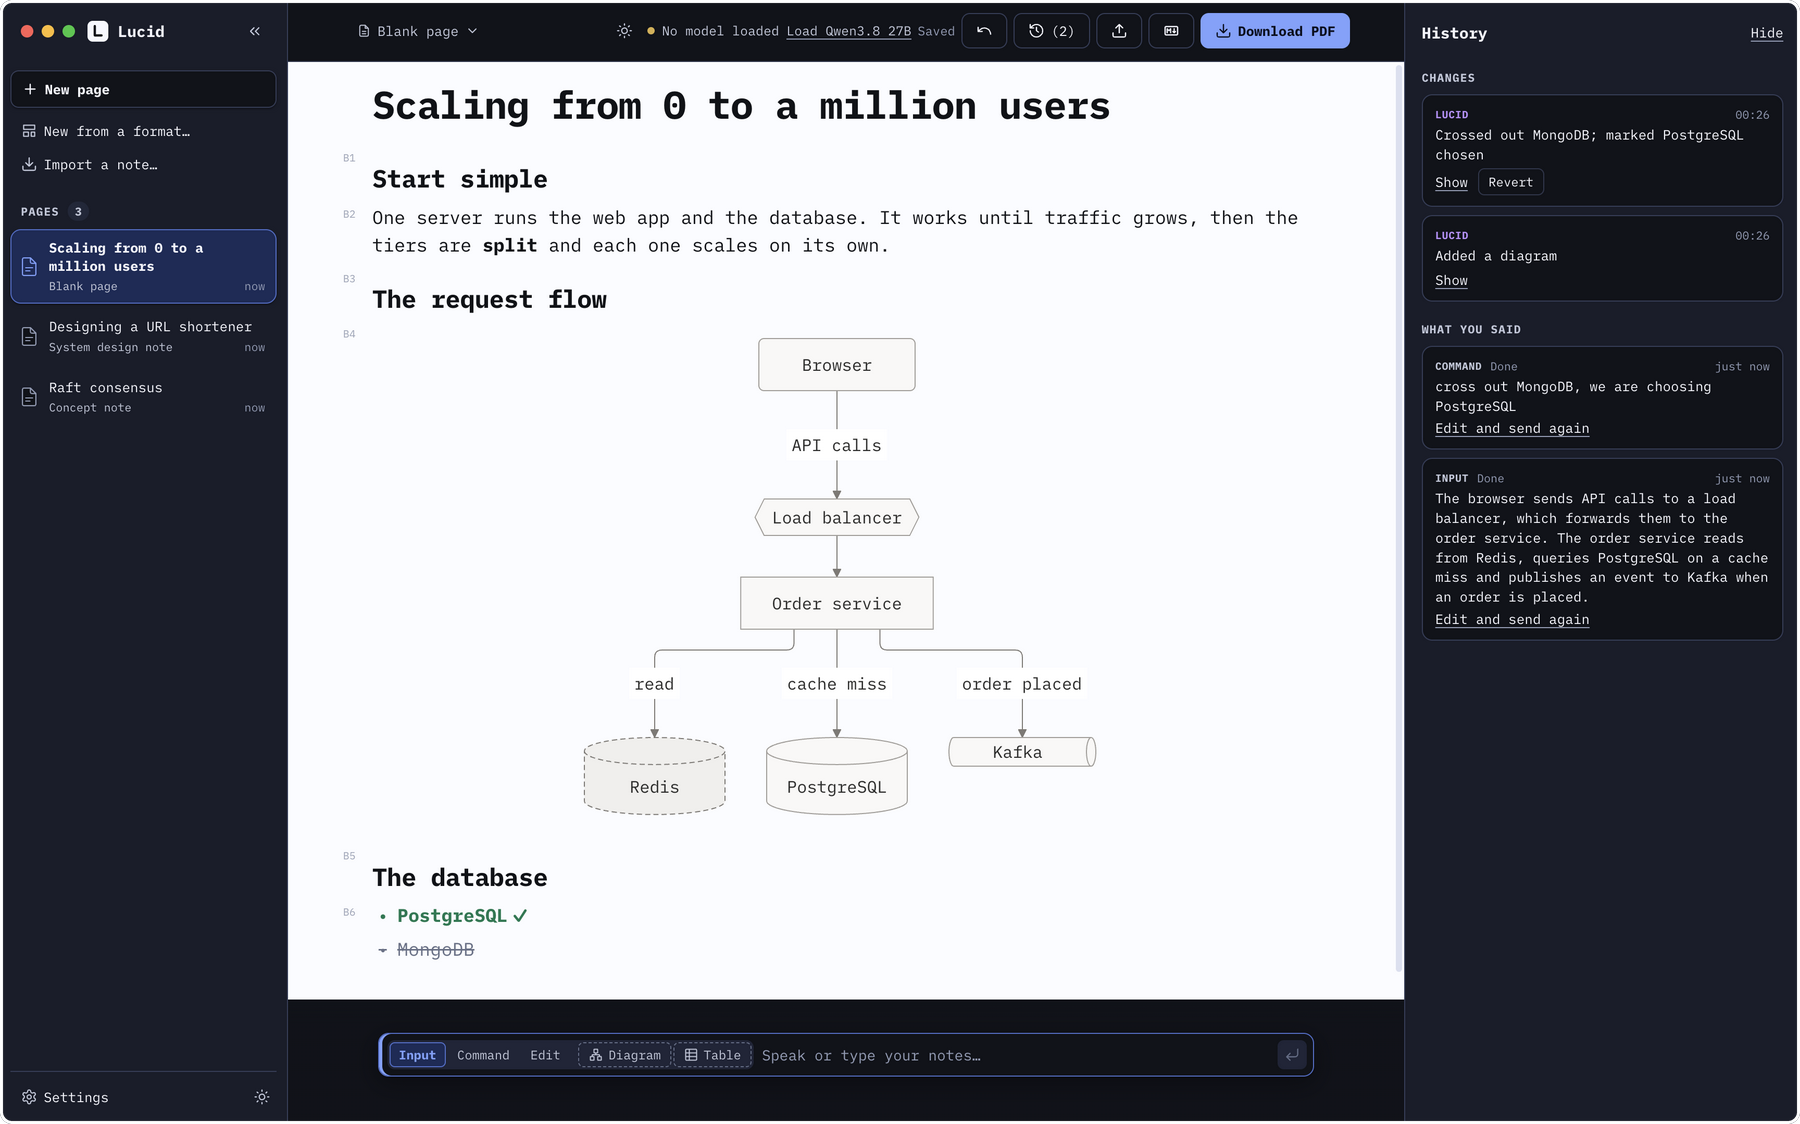
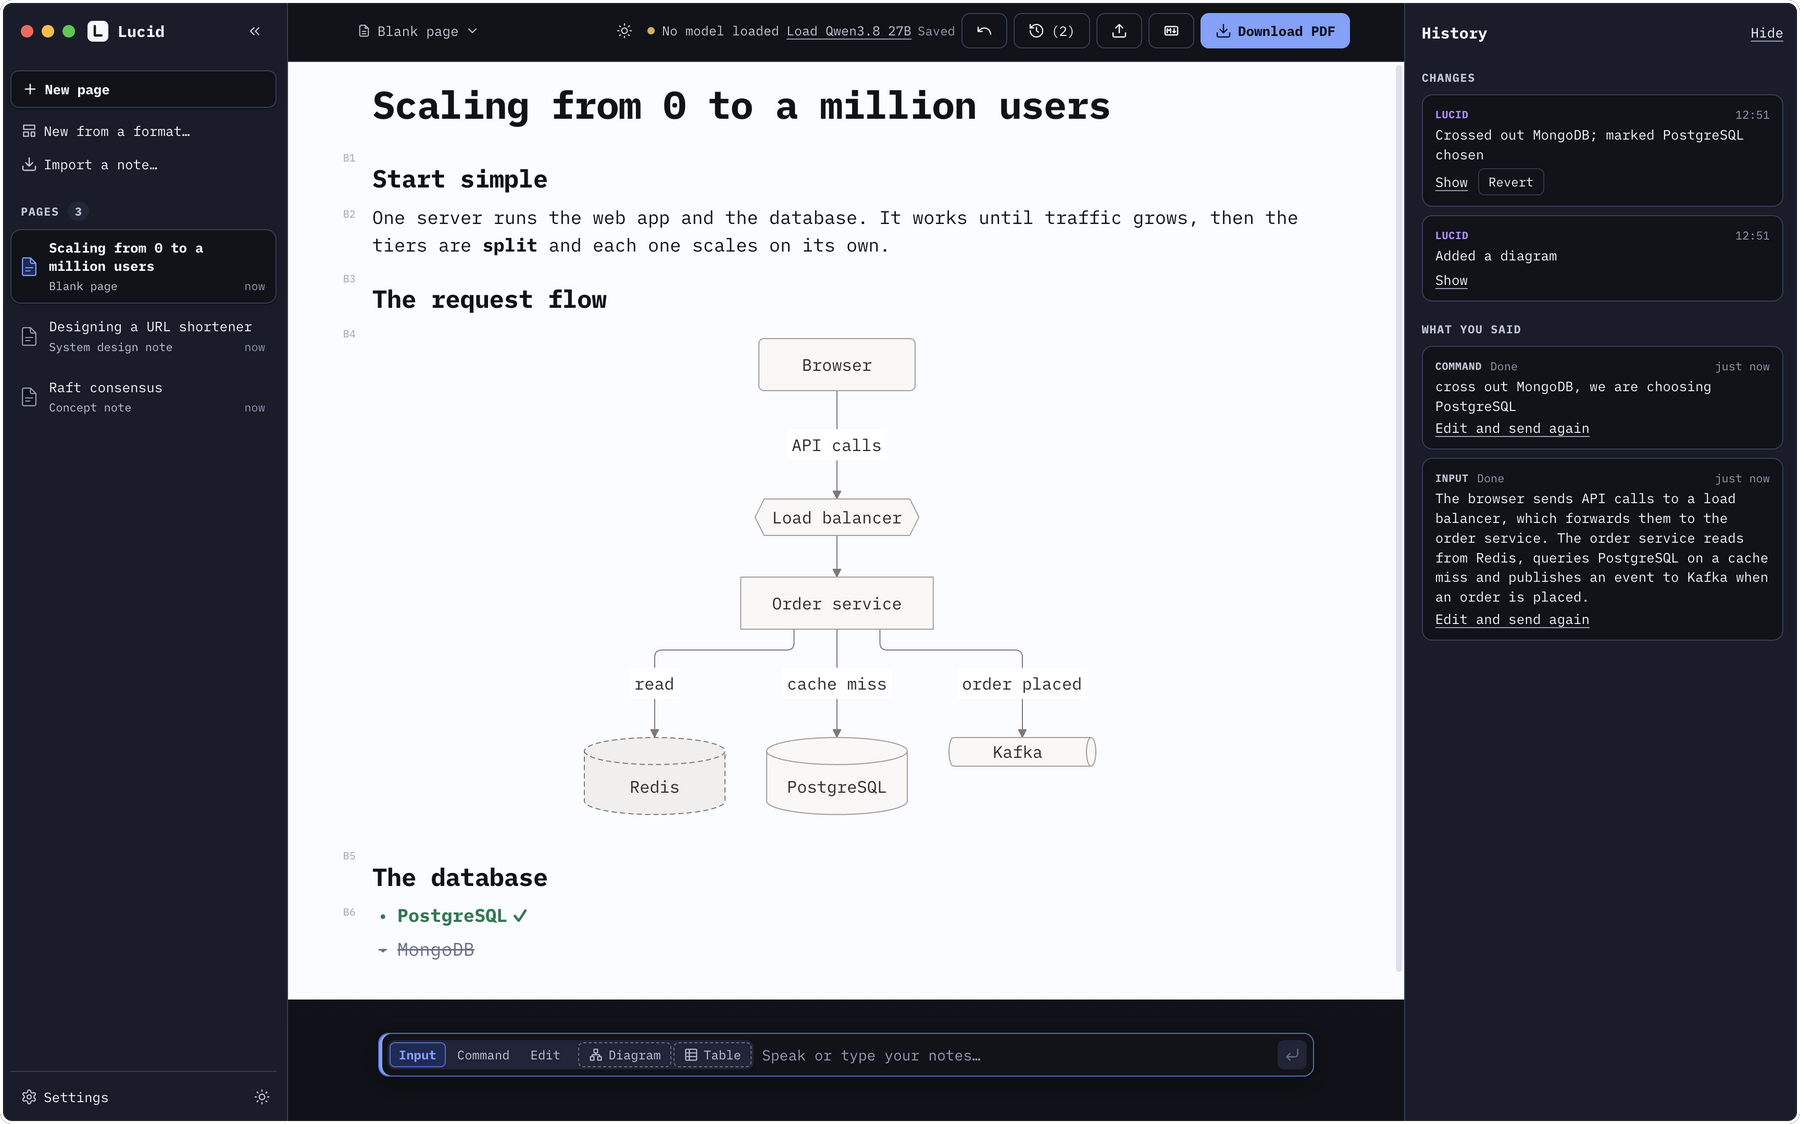
Restrain onboarding color and active-page styling

Changed region(s): [[0.0, 0.1868, 0.1556, 0.2802]]

diff --git a/apps/desktop/src/styles.css b/apps/desktop/src/styles.css
@@ -1826,7 +1826,7 @@ select:focus-visible,
   max-height: calc(100vh - 64px);
   overflow: hidden;
   padding: 0;
-  border: 1px solid color-mix(in srgb, var(--structure) 35%, var(--line));
+  border: 1px solid var(--panel-line);
   border-radius: 24px;
 }
 .onboarding-rail {
@@ -1836,8 +1836,9 @@ select:focus-visible,
   gap: 28px;
   min-width: 0;
   padding: 0 30px;
-  background: var(--structure);
-  color: var(--structure-ink);
+  border-bottom: 1px solid var(--panel-line);
+  background: color-mix(in srgb, var(--panel) 72%, var(--bg));
+  color: var(--ink);
 }
 .onboarding-brand {
   display: flex;
@@ -1860,7 +1861,7 @@ select:focus-visible,
   display: flex;
   align-items: center;
   gap: 10px;
-  color: color-mix(in srgb, var(--structure-ink) 66%, transparent);
+  color: var(--ink-3);
   font-size: 13px;
   font-weight: 700;
 }
@@ -1869,31 +1870,31 @@ select:focus-visible,
   place-items: center;
   width: 23px;
   height: 23px;
-  border: 1px solid color-mix(in srgb, var(--structure-ink) 36%, transparent);
+  border: 1px solid var(--panel-line);
   border-radius: 50%;
   font-size: 11px;
 }
 .onboarding-rail li[data-current="true"] {
-  color: var(--structure-ink);
+  color: var(--ink);
   font-weight: 700;
 }
 .onboarding-rail li[data-current="true"] > span {
-  border-color: var(--structure-ink);
-  background: var(--structure-ink);
-  color: var(--structure);
+  border-color: var(--structure);
+  background: var(--structure);
+  color: var(--structure-ink);
 }
 .onboarding-rail li[data-done="true"] > span {
-  border-color: var(--structure-ink);
-  background: color-mix(in srgb, var(--structure-ink) 14%, transparent);
-  color: var(--structure-ink);
+  border-color: var(--structure-line);
+  background: var(--structure-bg);
+  color: var(--structure);
 }
 .onboarding-rail li[data-done="true"] .icon {
   stroke-width: 3;
 }
 .onboarding-skip {
   margin: 0;
-  color: var(--structure-ink);
-  text-decoration-color: color-mix(in srgb, var(--structure-ink) 48%, transparent);
+  color: var(--ink-2);
+  text-decoration-color: var(--ink-4);
 }
 .onboarding-content {
   display: flex;
@@ -1948,10 +1949,22 @@ select:focus-visible,
   min-height: 0;
   overflow: hidden;
   background:
-    radial-gradient(circle at 85% 16%, rgb(255 255 255 / 24%) 0 14%, transparent 14.5%),
-    radial-gradient(circle at 12% 88%, rgb(255 199 91 / 32%) 0 18%, transparent 18.5%),
-    linear-gradient(145deg, #2457ff 0%, #5c37ec 54%, #8a35d7 100%);
-  color: #fff;
+    radial-gradient(
+      circle at 85% 16%,
+      color-mix(in srgb, var(--data-bg) 72%, transparent) 0 14%,
+      transparent 14.5%
+    ),
+    radial-gradient(
+      circle at 12% 88%,
+      color-mix(in srgb, var(--attention-bg) 58%, transparent) 0 18%,
+      transparent 18.5%
+    ),
+    linear-gradient(
+      145deg,
+      color-mix(in srgb, var(--structure-bg) 72%, var(--bg)),
+      color-mix(in srgb, var(--data-bg) 54%, var(--bg))
+    );
+  color: var(--ink);
 }
 .thoughts-to-page::after {
   content: "";
@@ -1959,7 +1972,7 @@ select:focus-visible,
   inset: 12% -12% auto auto;
   width: 58%;
   aspect-ratio: 1;
-  border: 1px solid rgb(255 255 255 / 22%);
+  border: 1px solid color-mix(in srgb, var(--structure) 18%, transparent);
   border-radius: 50%;
 }
 .thought-cloud {
@@ -1970,13 +1983,13 @@ select:focus-visible,
   position: absolute;
   z-index: 2;
   padding: 10px 14px;
-  border: 1px solid rgb(255 255 255 / 56%);
+  border: 1px solid var(--panel-line);
   border-radius: 999px;
-  background: rgb(255 255 255 / 92%);
-  color: #33206b;
+  background: color-mix(in srgb, var(--bg) 94%, transparent);
+  color: var(--ink-2);
   font-size: 12px;
   font-weight: 700;
-  box-shadow: 0 12px 28px rgb(31 20 91 / 24%);
+  box-shadow: var(--shadow-sm);
   animation: thought-drift 5.5s ease-in-out infinite;
 }
 .thought-one {
@@ -1986,15 +1999,15 @@ select:focus-visible,
 .thought-two {
   top: 30%;
   left: 25%;
-  background: #fff0bd;
-  color: #724b00;
+  background: var(--attention-bg);
+  color: var(--attention);
   animation-delay: -1.8s;
 }
 .thought-three {
   top: 48%;
   left: 9%;
-  background: #c8ffe7;
-  color: #075b40;
+  background: var(--decision-bg);
+  color: var(--decision);
   animation-delay: -3.6s;
 }
 .thought-line {
@@ -2004,7 +2017,7 @@ select:focus-visible,
   left: 42%;
   width: 20%;
   height: 2px;
-  background: rgb(255 255 255 / 72%);
+  background: color-mix(in srgb, var(--structure) 62%, transparent);
   transform: rotate(12deg);
 }
 .thought-line::after {
@@ -2014,8 +2027,8 @@ select:focus-visible,
   right: 0;
   width: 7px;
   height: 7px;
-  border-top: 2px solid #fff;
-  border-right: 2px solid #fff;
+  border-top: 2px solid var(--structure);
+  border-right: 2px solid var(--structure);
   transform: rotate(45deg);
 }
 .ordered-page {
@@ -2027,10 +2040,10 @@ select:focus-visible,
   height: auto;
   aspect-ratio: 1.72;
   padding: 78px 30px 24px;
-  border: 1px solid rgb(255 255 255 / 58%);
+  border: 1px solid var(--panel-line);
   border-radius: 18px;
-  background: rgb(255 255 255 / 94%);
-  box-shadow: 0 28px 70px rgb(28 19 91 / 30%);
+  background: color-mix(in srgb, var(--bg) 96%, transparent);
+  box-shadow: 0 22px 52px rgb(18 24 40 / 14%);
 }
 .ordered-page::before {
   content: "";
@@ -2040,13 +2053,13 @@ select:focus-visible,
   width: 52%;
   height: 7px;
   border-radius: 999px;
-  background: #2457ff;
+  background: var(--structure);
 }
 .ordered-page > span {
   position: absolute;
   top: 20px;
   right: 28px;
-  color: #7134e8;
+  color: var(--data);
   font-size: 10px;
   font-weight: 800;
   letter-spacing: 0.04em;
@@ -2058,7 +2071,7 @@ select:focus-visible,
   height: 5px;
   margin: 0 0 15px;
   border-radius: 2px;
-  background: #dce3ff;
+  background: color-mix(in srgb, var(--structure) 12%, var(--panel-2));
   transform-origin: left;
   animation: page-line 1.4s ease-out both;
 }
@@ -2074,9 +2087,9 @@ select:focus-visible,
   display: block;
   width: 68%;
   height: 42px;
-  border: 2px solid #008a5a;
+  border: 2px solid color-mix(in srgb, var(--decision) 64%, var(--panel-line));
   border-radius: 8px;
-  background: #e7fff4;
+  background: var(--decision-bg);
   animation: page-line 1.4s 0.36s ease-out both;
 }
 .thoughts-to-page > strong {
@@ -2084,7 +2097,7 @@ select:focus-visible,
   z-index: 3;
   right: 8%;
   bottom: 5%;
-  color: #fff;
+  color: var(--ink-2);
   font-size: 12px;
   font-weight: 800;
   letter-spacing: 0.02em;
@@ -3126,8 +3139,8 @@ select:focus-visible,
 }
 
 .page-row[data-active="true"] {
-  border-color: var(--structure-line);
-  background: var(--structure-bg);
+  border-color: var(--panel-line);
+  background: var(--bg);
   box-shadow: var(--shadow-sm);
 }
 .page-row[data-active="true"] .file-body {
